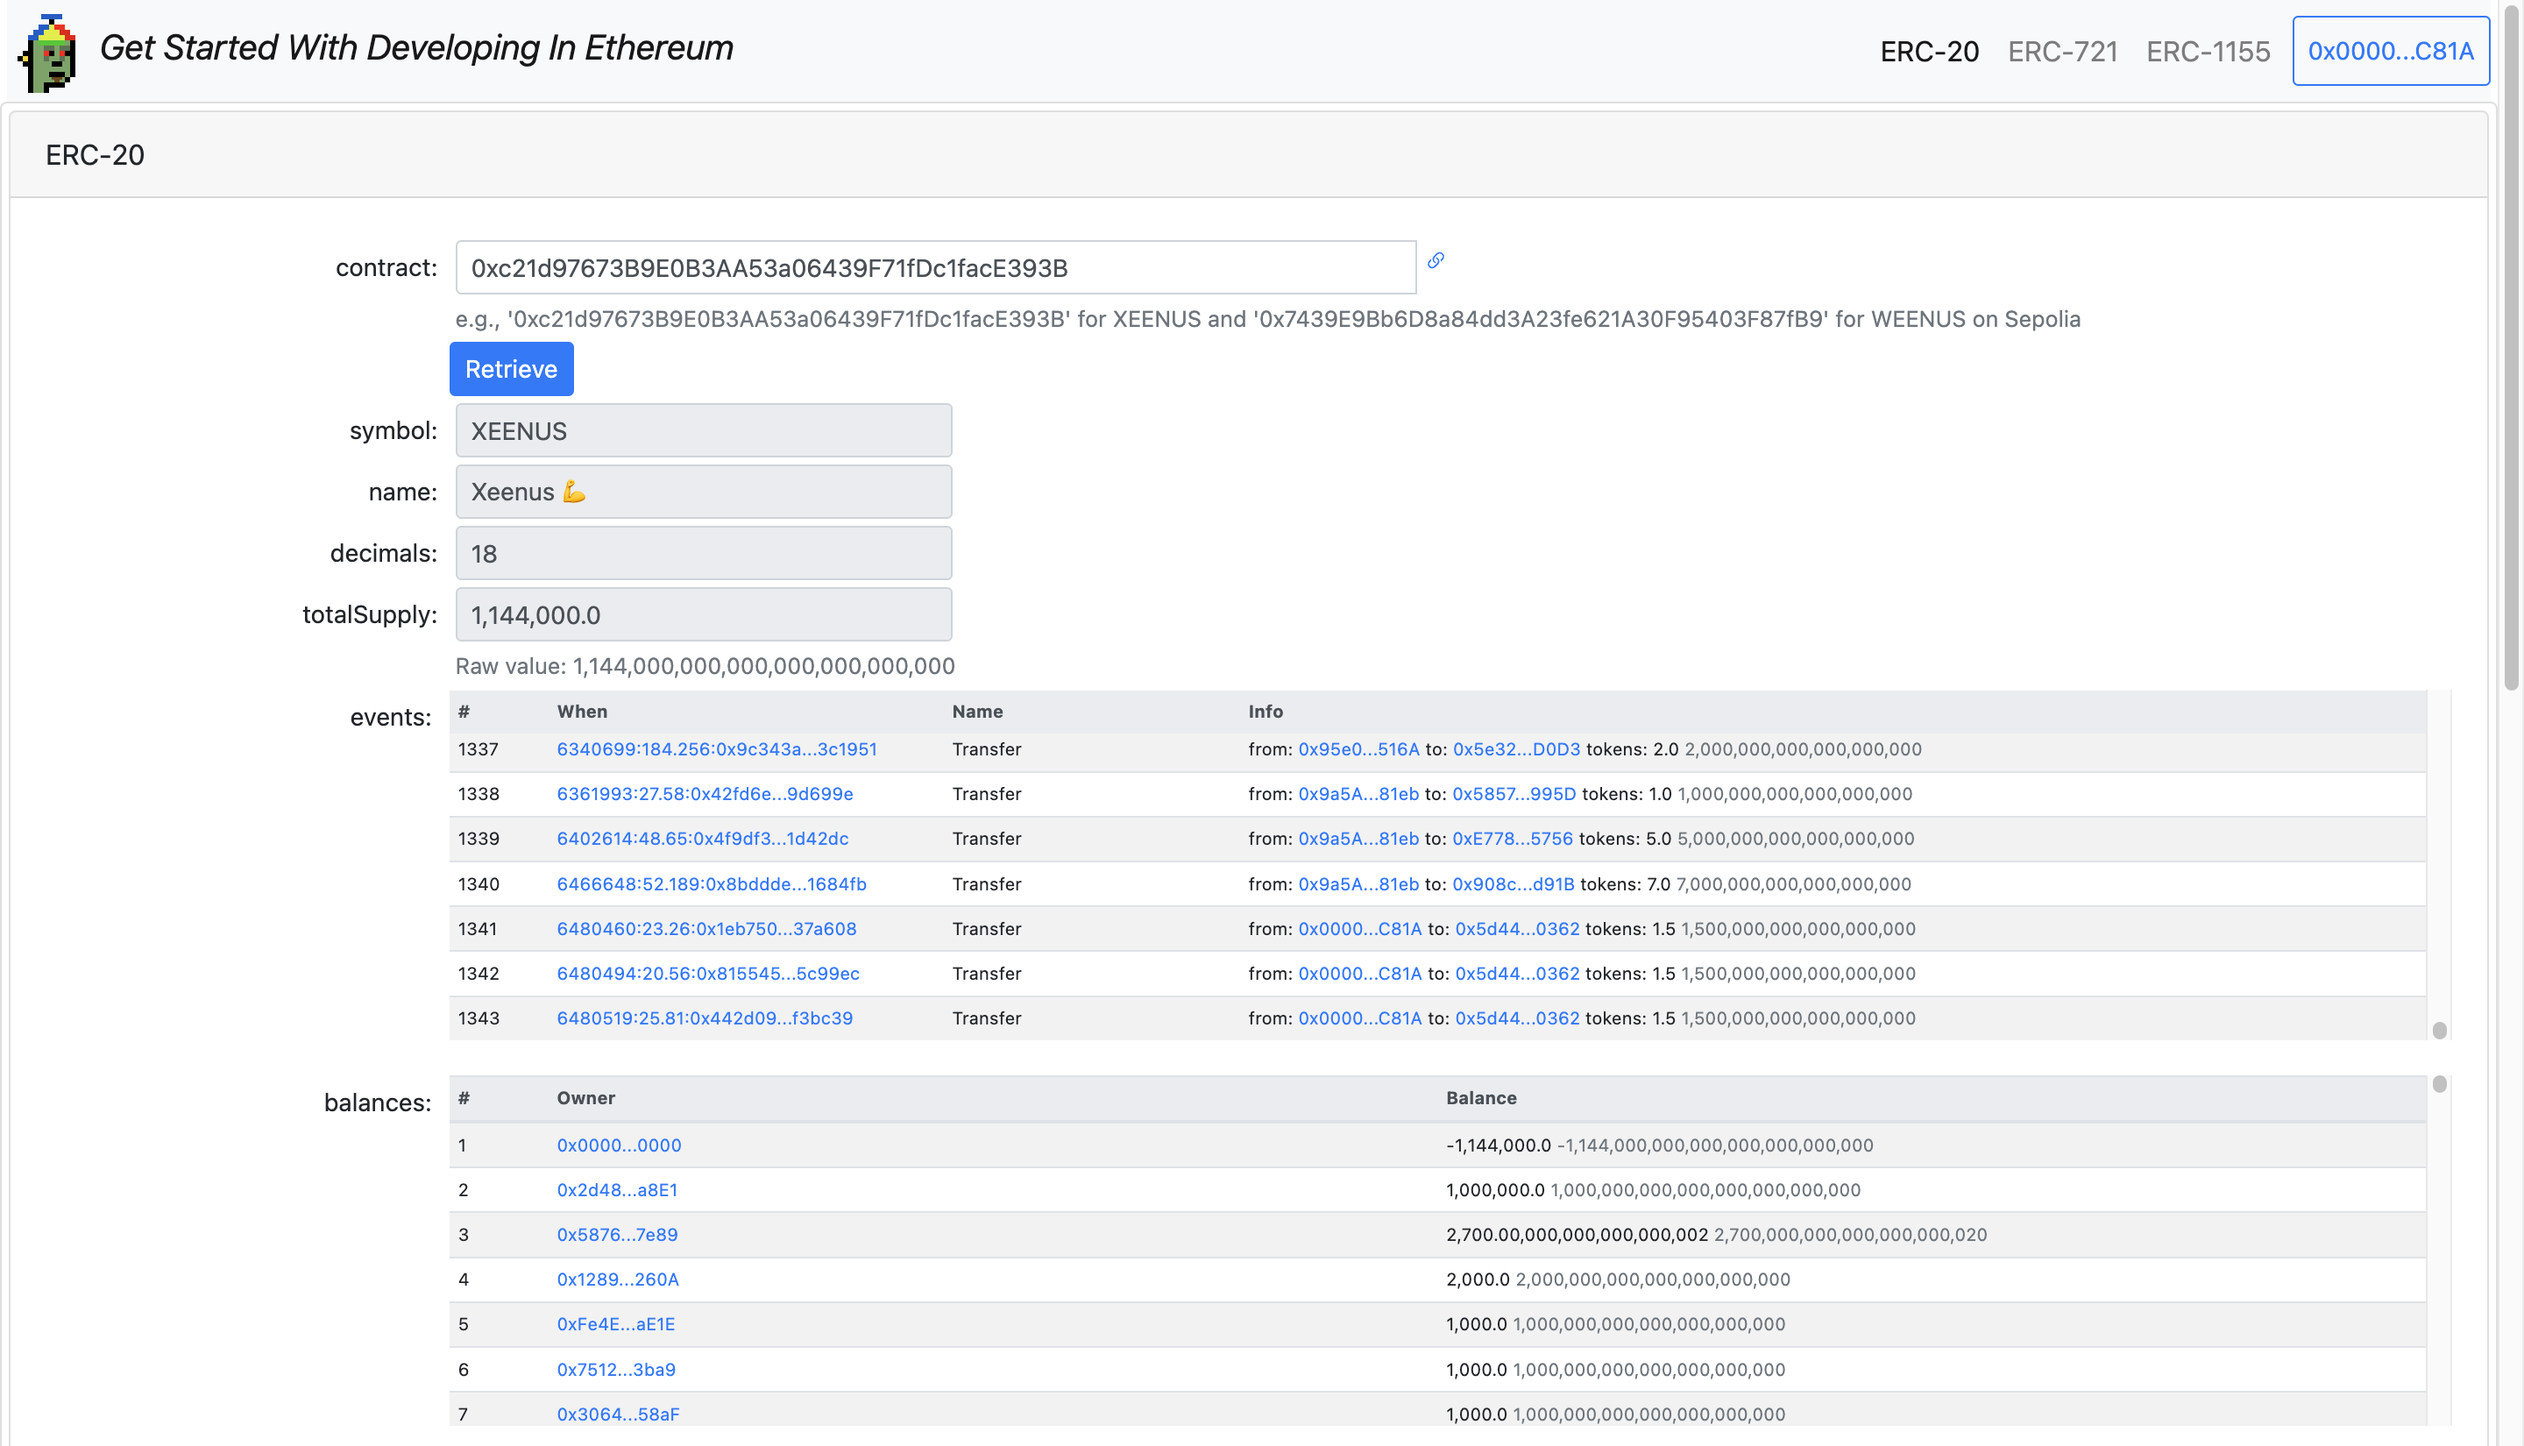
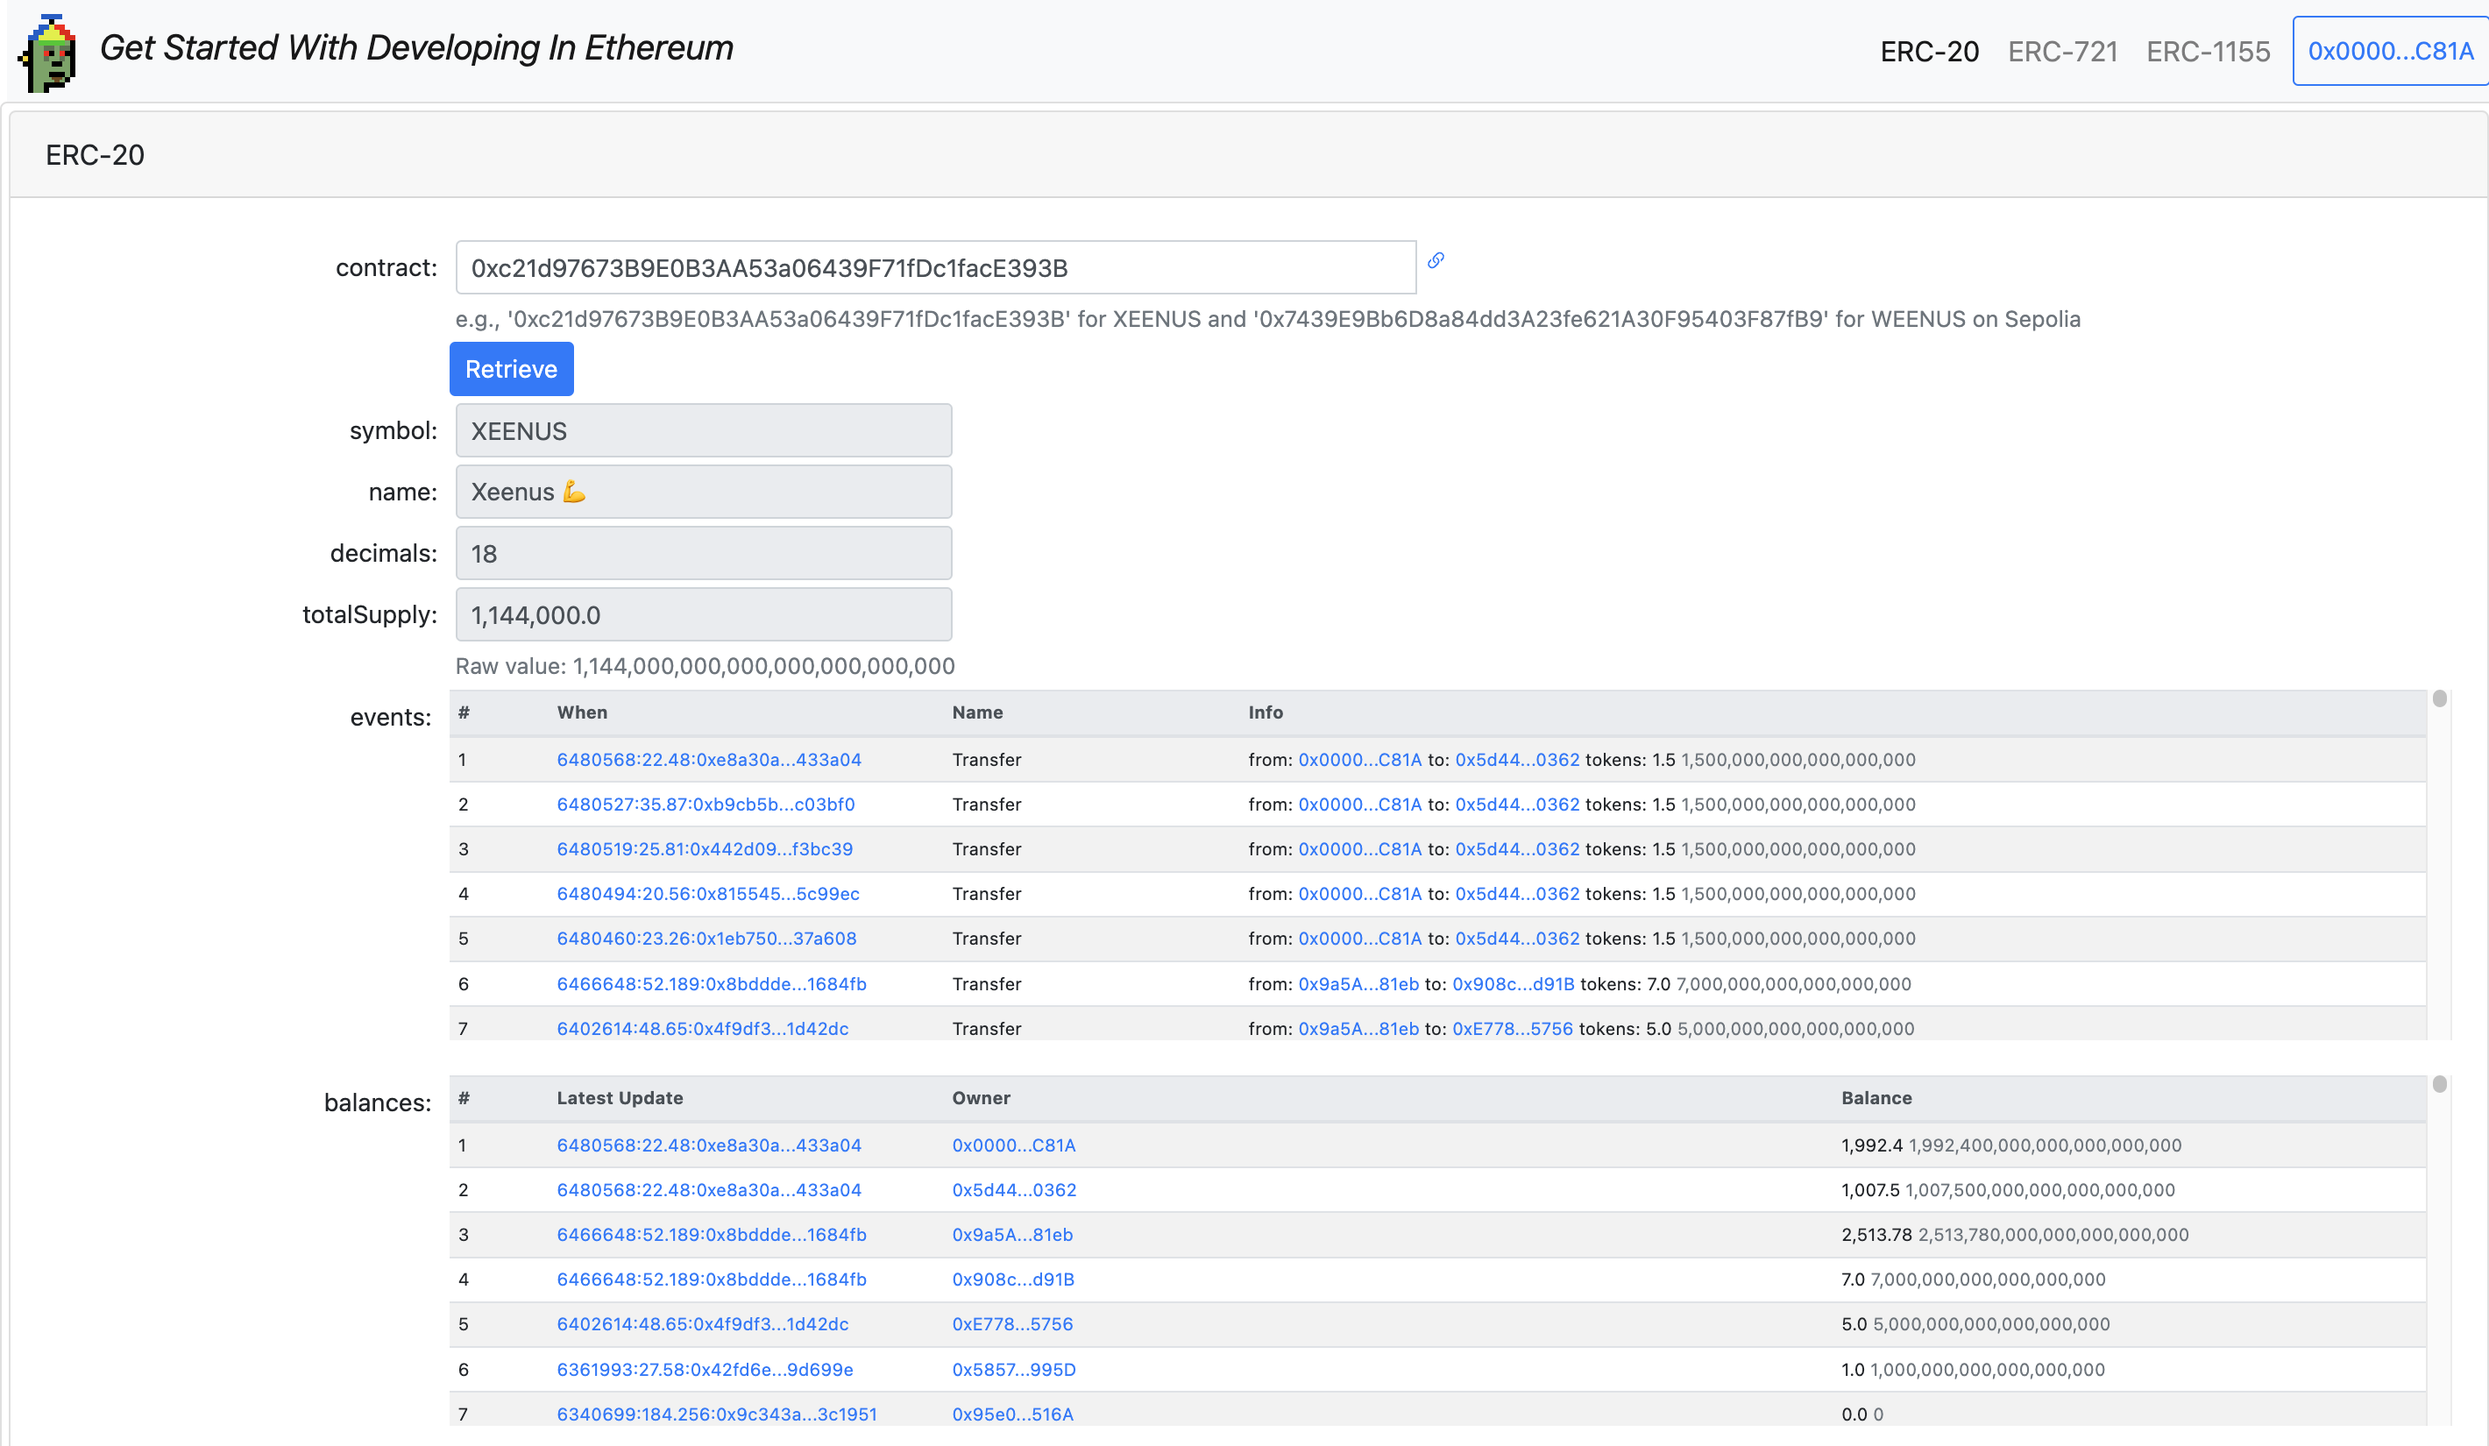
erc-20 wip

diff --git a/docs/index.html b/docs/index.html
@@ -138,15 +138,20 @@
                     <template #cell(number)="data">
                         {{ parseInt(data.index) + 1 }}
                     </template>
+                    <template #cell(latestUpdate)="data">
+                      <b-link size="sm" :href="'https://sepolia.etherscan.io/tx/' + data.item.balance.txHash + '#eventlog#' + data.item.balance.logIndex" variant="link" v-b-popover.hover.ds500="'blockNumber:txIndex.logIndex:txHash'" target="_blank">
+                        {{ data.item.balance.blockNumber + ':' + data.item.balance.txIndex + '.' + data.item.balance.logIndex + ':' + data.item.balance.txHash.substring(0, 8) + '...' + data.item.balance.txHash.slice(-6) }}
+                      </b-link>
+                    </template>
                     <template #cell(owner)="data">
                       <b-link size="sm" :href="'https://sepolia.etherscan.io/token/' + settings.erc20.contract + '?a=' + data.item.owner" variant="link" v-b-popover.hover.ds500="data.item.owner" target="_blank">
                         {{ data.item.owner.substring(0, 6) + '...' + data.item.owner.slice(-4) }}
                       </b-link>
                     </template>
                     <template #cell(balance)="data">
-                      {{ formatDecimals(data.item.balance, data.item.decimals) }}
+                      {{ formatDecimals(data.item.balance.tokens, data.item.decimals) }}
                       <span class="text-muted">
-                        {{ formatNumber(data.item.balance) }}
+                        {{ formatNumber(data.item.balance.tokens) }}
                       </span>
                     </template>
                   </b-table>
@@ -159,7 +164,7 @@
                     <template #cell(number)="data">
                         {{ parseInt(data.index) + 1 }}
                     </template>
-                    <template #cell(when)="data">
+                    <template #cell(latestUpdate)="data">
                       <b-link size="sm" :href="'https://sepolia.etherscan.io/tx/' + data.item.tokens.txHash + '#eventlog#' + data.item.tokens.logIndex" variant="link" v-b-popover.hover.ds500="'blockNumber:txIndex.logIndex:txHash'" target="_blank">
                         {{ data.item.tokens.blockNumber + ':' + data.item.tokens.txIndex + '.' + data.item.tokens.logIndex + ':' + data.item.tokens.txHash.substring(0, 8) + '...' + data.item.tokens.txHash.slice(-6) }}
                       </b-link>
@@ -425,12 +430,13 @@
           ],
           erc20BalancesFields: [
             { key: 'number', label: '#', sortable: false, thStyle: 'width: 5%;', tdClass: 'text-truncate' },
+            { key: 'latestUpdate', label: 'Latest Update', sortable: false, thStyle: 'width: 20%;', thClass: 'text-left', tdClass: 'text-left' },
             { key: 'owner', label: 'Owner', sortable: false, thStyle: 'width: 45%;', thClass: 'text-left', tdClass: 'text-left' },
-            { key: 'balance', label: 'Balance', sortable: false, thStyle: 'width: 50%;', tdClass: 'text-truncate' },
+            { key: 'balance', label: 'Balance', sortable: false, thStyle: 'width: 30%;', tdClass: 'text-truncate' },
           ],
           erc20AllowancesFields: [
             { key: 'number', label: '#', sortable: false, thStyle: 'width: 5%;', tdClass: 'text-truncate' },
-            { key: 'when', label: 'When', sortable: false, thStyle: 'width: 20%;', thClass: 'text-left', tdClass: 'text-left' },
+            { key: 'latestUpdate', label: 'Latest Update', sortable: false, thStyle: 'width: 20%;', thClass: 'text-left', tdClass: 'text-left' },
             { key: 'tokenOwner', label: 'Token Owner', sortable: false, thStyle: 'width: 25%;', thClass: 'text-left', tdClass: 'text-left' },
             { key: 'spender', label: 'Spender', sortable: false, thStyle: 'width: 25%;', thClass: 'text-left', tdClass: 'text-left' },
             { key: 'tokens', label: 'Tokens', sortable: false, thStyle: 'width: 25%;', tdClass: 'text-truncate' },
@@ -545,13 +551,37 @@
               if (event.name == "Transfer") {
                 // console.log(moment().format("HH:mm:ss") + " retrieveERC20 - Transfer event: " + JSON.stringify(event));
                 if (!(event.from in balanceCollator)) {
-                  balanceCollator[event.from] = "0";
+                  balanceCollator[event.from] = {
+                    blockNumber: event.blockNumber,
+                    txIndex: event.txIndex,
+                    txHash: event.txHash,
+                    logIndex: event.logIndex,
+                    tokens: event.tokens,
+                  };
+                } else {
+                  balanceCollator[event.from].blockNumber = event.blockNumber;
+                  balanceCollator[event.from].txIndex = event.txIndex;
+                  balanceCollator[event.from].txHash = event.txHash;
+                  balanceCollator[event.from].logIndex = event.logIndex;
+                  balanceCollator[event.from].blockNumber = event.blockNumber;
+                  balanceCollator[event.from].tokens = ethers.BigNumber.from(balanceCollator[event.from].tokens).sub(event.tokens).toString();
                 }
                 if (!(event.to in balanceCollator)) {
-                  balanceCollator[event.to] = "0";
+                  balanceCollator[event.to] = {
+                    blockNumber: event.blockNumber,
+                    txIndex: event.txIndex,
+                    txHash: event.txHash,
+                    logIndex: event.logIndex,
+                    tokens: event.tokens,
+                  };
+                } else {
+                  balanceCollator[event.to].blockNumber = event.blockNumber;
+                  balanceCollator[event.to].txIndex = event.txIndex;
+                  balanceCollator[event.to].txHash = event.txHash;
+                  balanceCollator[event.to].logIndex = event.logIndex;
+                  balanceCollator[event.to].blockNumber = event.blockNumber;
+                  balanceCollator[event.to].tokens = ethers.BigNumber.from(balanceCollator[event.to].tokens).add(event.tokens).toString();
                 }
-                balanceCollator[event.from] = ethers.BigNumber.from(balanceCollator[event.from]).sub(event.tokens).toString();
-                balanceCollator[event.to] = ethers.BigNumber.from(balanceCollator[event.to]).add(event.tokens).toString();
               } else if (event.name == "Approval") {
                 // console.log(moment().format("HH:mm:ss") + " retrieveERC20 - Approval event: " + JSON.stringify(event));
                 if (!(event.tokenOwner in allowancesCollator)) {
@@ -583,14 +613,14 @@
               balances.push({ owner, balance });
             }
             balances.sort((a, b) => {
-              if (a.balance == b.balance) {
-                return ('' + a.owner).localeCompare(b.owner);
+              if (a.balance.blockNumber == b.balance.blockNumber) {
+                return b.balance.logIndex - a.balance.logIndex;
               } else {
-                return a.balance - b.balance;
+                return b.balance.blockNumber - a.balance.blockNumber;
               }
             });
             Vue.set(this.erc20, 'balances', balances);
-            // console.log(moment().format("HH:mm:ss") + " retrieveERC20 - balances: " + JSON.stringify(balances, null, 2));
+            console.log(moment().format("HH:mm:ss") + " retrieveERC20 - balances: " + JSON.stringify(balances, null, 2));
 
             const allowances = [];
             for (const [tokenOwner, spenders] of Object.entries(allowancesCollator)) {
